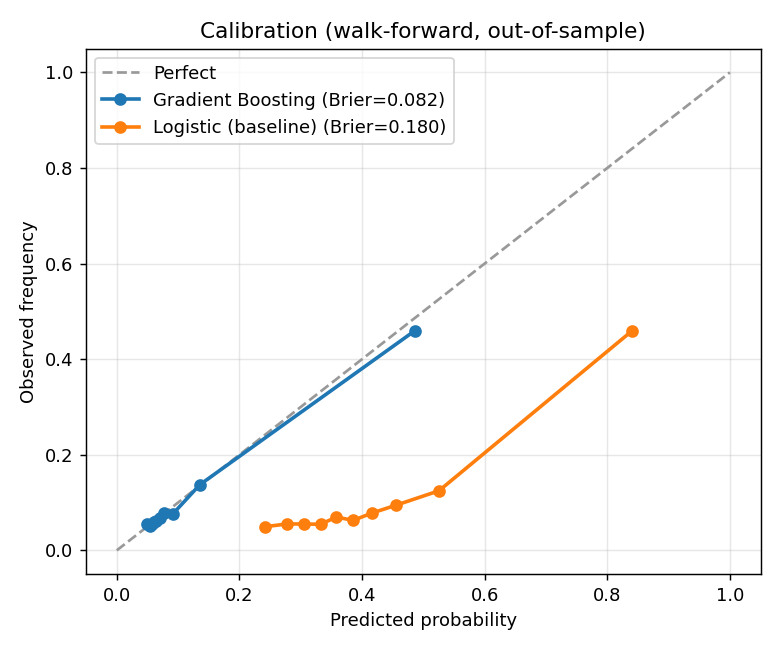
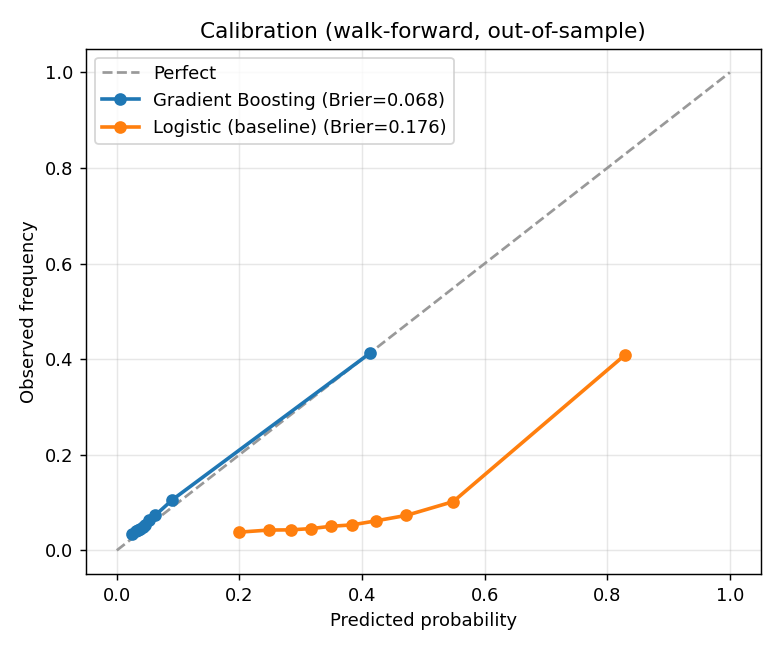
extend to 15 seasons (2010-2025), fix terminology, refresh results
Centralize DEFAULT_SEASONS (2010-11..2024-25) and default the pipeline to it; clarify that the unit is player-game observations (not games) with a full data-scope cascade. Refreshed out-of-sample results on 202,796 rotation-player-game rows: GBM 0.752 ROC / 0.390 PR-AUC / 0.068 Brier / 4.49x top-decile lift over 8.9%% base rate, stable across 10 folds (ROC 0.739-0.763, 2013-2025).

diff --git a/nba-availability-signal/src/data.py b/nba-availability-signal/src/data.py
@@ -28,6 +28,13 @@ logger = logging.getLogger(__name__)
 
 DATA_DIR = Path(__file__).resolve().parent.parent / "data" / "raw"
 
+# The seasons the published results are built on (2010-11 through 2024-25).
+DEFAULT_SEASONS = [
+    "2010-11", "2011-12", "2012-13", "2013-14", "2014-15", "2015-16",
+    "2016-17", "2017-18", "2018-19", "2019-20", "2020-21", "2021-22",
+    "2022-23", "2023-24", "2024-25",
+]
+
 # Columns we keep from the raw LeagueGameLog player feed.
 _KEEP_COLS = [
     "SEASON_ID", "PLAYER_ID", "PLAYER_NAME", "TEAM_ID", "TEAM_ABBREVIATION",
@@ -107,8 +114,7 @@ def load_player_logs(seasons: list[str], refresh: bool = False) -> pd.DataFrame:
 def main() -> None:
     parser = argparse.ArgumentParser(description="Cache NBA player game logs")
     parser.add_argument(
-        "--seasons", nargs="+",
-        default=["2021-22", "2022-23", "2023-24", "2024-25"],
+        "--seasons", nargs="+", default=DEFAULT_SEASONS,
         help="Seasons to pull, e.g. 2022-23 2023-24",
     )
     parser.add_argument("--refresh", action="store_true", help="Re-fetch even if cached")

diff --git a/nba-availability-signal/run.py b/nba-availability-signal/run.py
@@ -19,7 +19,7 @@ import json
 import logging
 from pathlib import Path
 
-from src.data import load_player_logs
+from src.data import DEFAULT_SEASONS, load_player_logs
 from src.features import build_features
 from src.panel import build_panel
 from src.plots import generate_all
@@ -31,9 +31,8 @@ RESULTS_DIR = Path(__file__).resolve().parent / "results"
 def main() -> None:
     logging.basicConfig(level=logging.INFO, format="%(asctime)s %(levelname)s %(message)s")
     parser = argparse.ArgumentParser(description="Run the full availability-signal pipeline")
-    parser.add_argument("--seasons", nargs="+",
-                        default=["2021-22", "2022-23", "2023-24", "2024-25"])
-    parser.add_argument("--folds", type=int, default=8)
+    parser.add_argument("--seasons", nargs="+", default=DEFAULT_SEASONS)
+    parser.add_argument("--folds", type=int, default=12)
     args = parser.parse_args()
 
     raw = load_player_logs(args.seasons)

diff --git a/nba-availability-signal/src/validate.py b/nba-availability-signal/src/validate.py
@@ -207,14 +207,13 @@ def _permutation_importance(df: pd.DataFrame, n_folds: int) -> pd.Series:
 if __name__ == "__main__":
     import argparse
 
-    from src.data import load_player_logs
+    from src.data import DEFAULT_SEASONS, load_player_logs
     from src.features import build_features
     from src.panel import build_panel
 
     logging.basicConfig(level=logging.INFO, format="%(asctime)s %(levelname)s %(message)s")
     parser = argparse.ArgumentParser(description="Run walk-forward validation")
-    parser.add_argument("--seasons", nargs="+",
-                        default=["2021-22", "2022-23", "2023-24", "2024-25"])
+    parser.add_argument("--seasons", nargs="+", default=DEFAULT_SEASONS)
     args = parser.parse_args()
 
     raw = load_player_logs(args.seasons)

diff --git a/nba-availability-signal/src/features.py b/nba-availability-signal/src/features.py
@@ -168,13 +168,12 @@ def build_features(raw: pd.DataFrame, panel: pd.DataFrame) -> pd.DataFrame:
 if __name__ == "__main__":
     import argparse
 
-    from src.data import load_player_logs
+    from src.data import DEFAULT_SEASONS, load_player_logs
     from src.panel import build_panel
 
     logging.basicConfig(level=logging.INFO, format="%(asctime)s %(levelname)s %(message)s")
     parser = argparse.ArgumentParser(description="Build modeling features")
-    parser.add_argument("--seasons", nargs="+",
-                        default=["2021-22", "2022-23", "2023-24", "2024-25"])
+    parser.add_argument("--seasons", nargs="+", default=DEFAULT_SEASONS)
     args = parser.parse_args()
 
     raw = load_player_logs(args.seasons)

diff --git a/nba-availability-signal/src/panel.py b/nba-availability-signal/src/panel.py
@@ -142,12 +142,11 @@ def build_panel(raw: pd.DataFrame) -> pd.DataFrame:
 if __name__ == "__main__":
     import argparse
 
-    from src.data import load_player_logs
+    from src.data import DEFAULT_SEASONS, load_player_logs
 
     logging.basicConfig(level=logging.INFO, format="%(asctime)s %(levelname)s %(message)s")
     parser = argparse.ArgumentParser(description="Build player-game panel")
-    parser.add_argument("--seasons", nargs="+",
-                        default=["2021-22", "2022-23", "2023-24", "2024-25"])
+    parser.add_argument("--seasons", nargs="+", default=DEFAULT_SEASONS)
     args = parser.parse_args()
 
     raw = load_player_logs(args.seasons)

diff --git a/nba-availability-signal/README.md b/nba-availability-signal/README.md
@@ -44,22 +44,36 @@ Everything is validated with **expanding-window walk-forward** splits (train on 
 
 ---
 
+## Data scope
+
+Fifteen NBA regular seasons, **2010-11 → 2024-25** (game dates Oct 2010 → Apr 2025). Regular season only — playoffs/preseason are excluded because their rotation logic is different and would contaminate the label.
+
+The unit of analysis is a **player-game observation** (one row per player per game), *not* a game. The counts cascade like this:
+
+| Level | Count | Meaning |
+|-------|------:|---------|
+| Unique games | ~17,900 | 1,230 games/season × 15 (adjusted for lockout/COVID-shortened years) |
+| Team-games | 35,776 | each game counted once per team |
+| Player-games (played) | 377,780 | box-score rows where the player appeared |
+| Player-games (+ inferred DNPs) | 503,683 | after adding rest/DNP rows within each player's tenure |
+| **Modeling rows** | **202,796** | rotation players (trailing-10 ≥ 20 min) with ≥ 5 games of history |
+
 ## Results
 
-Trained and validated on **54,478 rotation-player games** across four seasons (2021-22 → 2024-25), with an **11.3% event base rate**. All numbers below are **out-of-sample**, pooled across 6 expanding-window walk-forward folds — the model never sees the period it's scored on.
+Validated on **202,796 rotation-player-game observations**, with an **8.9% event base rate**. All numbers below are **out-of-sample**, pooled across 10 expanding-window walk-forward folds spanning **2013 → 2025** — the model never sees the period it's scored on.
 
 | Model | ROC-AUC | PR-AUC | Brier | Lift @ top decile |
 |-------|:------:|:------:|:-----:|:-----------------:|
-| Base rate (reference) | 0.494 | 0.109 | 0.098 | 0.94x |
-| Recent-DNP heuristic | 0.644 | 0.174 | 0.099 | 2.14x |
-| Logistic regression | 0.729 | 0.347 | **0.180** | 4.16x |
-| **Gradient Boosting** | **0.730** | **0.375** | **0.082** | **4.16x** |
+| Base rate (reference) | 0.547 | 0.104 | 0.083 | 1.25x |
+| Recent-DNP heuristic | 0.653 | 0.158 | 0.083 | 2.53x |
+| Logistic regression | 0.744 | 0.362 | **0.176** | 4.45x |
+| **Gradient Boosting** | **0.752** | **0.390** | **0.068** | **4.49x** |
 
-**What the headline number means:** of the 10% of players the model flags as highest-risk on a given slate, **~47% actually sit or get their minutes cut** — a **4.2x lift** over the 11.3% base rate. The gradient-booster also nearly halves the Brier score vs. the logistic baseline, so its probabilities are usable as-is (no post-hoc calibration needed).
+**What the headline number means:** of the 10% of players the model flags as highest-risk on a given slate, **~40% actually sit or get their minutes cut** — a **4.5x lift** over the 8.9% base rate. The gradient-booster also cuts the Brier score by ~60% vs. the logistic baseline, so its probabilities are usable as-is (no post-hoc calibration needed).
 
-**Stability:** performance is consistent across every fold from late-2022 to 2025 (ROC 0.706–0.756), not driven by one lucky period.
+**Stability:** performance is consistent across every fold from 2013 to 2025 (ROC **0.739–0.763**), spanning the pre- and post-"load-management" eras — not driven by one lucky period or regime.
 
-**Honesty note:** ROC ~0.73 on an inferred, noisy label is a *realistic* number, not a suspiciously clean one. Roughly one-fifth of a player's minutes drop is genuinely unpredictable from schedule/role/form alone — which is exactly why official injury reports (roadmap) would be the next lift.
+**Honesty note:** ROC ~0.75 on an inferred, noisy label is a *realistic* number, not a suspiciously clean one. A meaningful share of a player's minutes drop is genuinely unpredictable from schedule/role/form alone — which is exactly why official injury reports (roadmap) would be the next lift.
 
 ### Figures
 
@@ -70,11 +84,11 @@ Trained and validated on **54,478 rotation-player games** across four seasons (2
 
 ![Feature importance](results/importance.png)
 
-Feature importance (permutation, out-of-sample) is led by the player's recent minutes and minutes **volatility** — i.e., inconsistent-usage players are the most predictable rest candidates — followed by season progression (rest ramps up late-season, consistent with load management and tanking).
+Feature importance (permutation, out-of-sample) is led by the player's **most-recent-game minutes** and recent minutes level, then **season progression** (`team_game_num` — rest ramps up late-season, consistent with load management and tanking) and minutes **volatility** (inconsistent-usage players are the most predictable rest candidates), then team rest days / back-to-backs.
 
 ### Resume bullet (real numbers)
 
-> Built an end-to-end NBA player-availability model on 54K+ rotation-player games, engineering strictly causal features from reconstructed box-score panels (recovering inferred DNPs) and validating with expanding-window walk-forward testing; the gradient-boosted classifier reached **0.73 ROC-AUC / 0.375 PR-AUC** out-of-sample with a **4.2x top-decile lift** over base rate and a well-calibrated 0.082 Brier score, beating naive and logistic baselines consistently across all folds.
+> Built an end-to-end NBA player-availability model on 200K+ rotation-player-game observations spanning 15 seasons (2010-11–2024-25), engineering strictly causal features from reconstructed box-score panels (recovering inferred DNPs) and validating with expanding-window walk-forward testing; the gradient-boosted classifier reached **0.75 ROC-AUC / 0.39 PR-AUC** out-of-sample with a **4.5x top-decile lift** over base rate and a well-calibrated 0.068 Brier score, beating naive and logistic baselines consistently across all 10 folds (ROC 0.74–0.76, 2013–2025).
 
 ---
 
@@ -83,11 +97,13 @@ Feature importance (permutation, out-of-sample) is led by the player's recent mi
 ```bash
 pip install -r requirements.txt
 
-# 1. Pull + cache raw season logs (few API calls)
-python -m src.data --seasons 2021-22 2022-23 2023-24 2024-25
+# 1. Pull + cache raw season logs (defaults to all 15 seasons, one API call each)
+python -m src.data
 
 # 2. Run the full pipeline: panel -> features -> walk-forward -> metrics + plots
 python run.py
+
+# (both default to 2010-11 .. 2024-25; pass --seasons to override)
 ```
 
 Outputs land in `results/` (metrics JSON + PNG plots).
